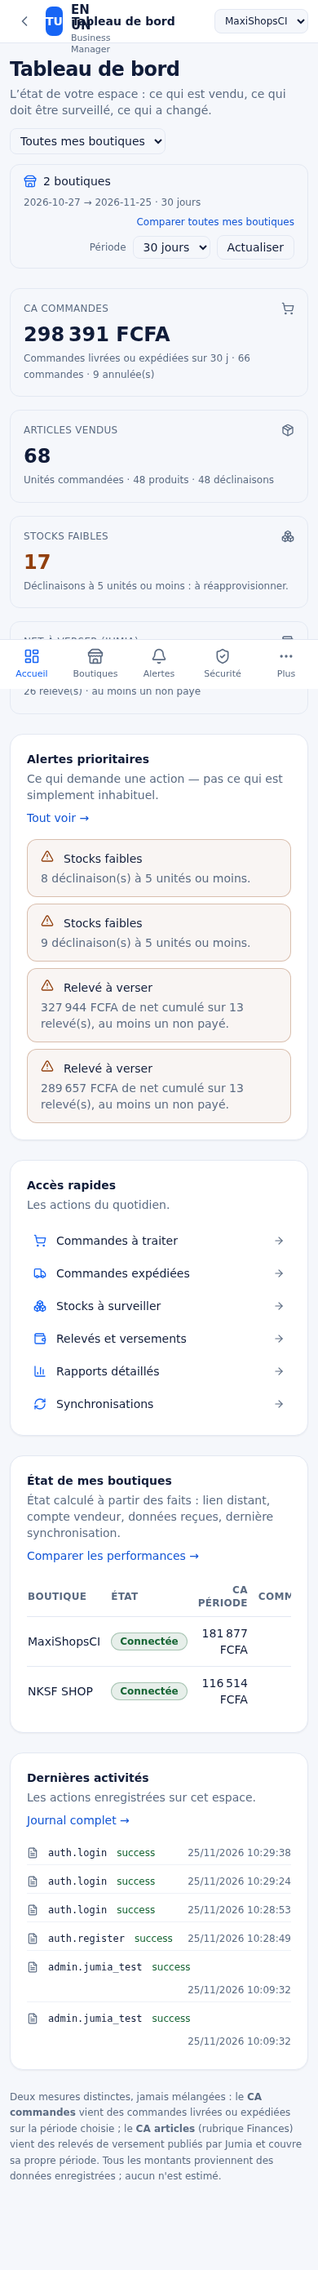
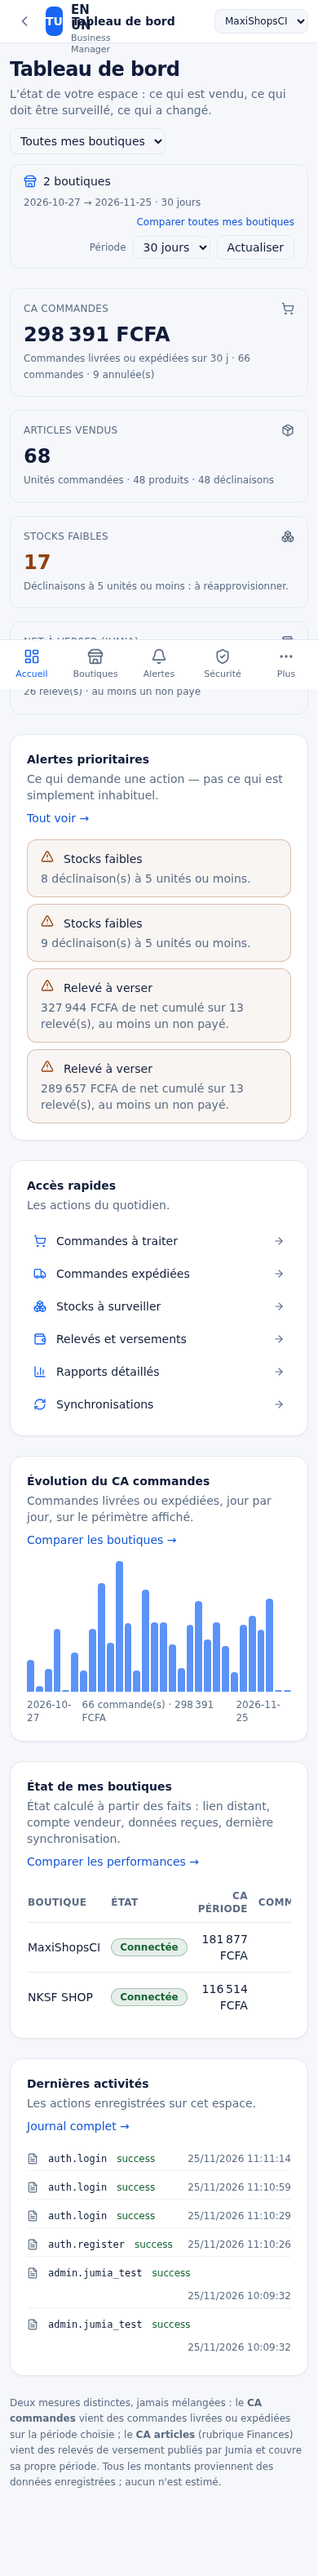
feat(dashboard): ajoute l'evolution journaliere du CA commandes
Le tableau de bord decrit la situation sans montrer sa evolution. La serie
quotidienne est desormais calculee dans dashboardOverview, sur le meme
perimetre et la meme mesure que le CA commandes (commandes livrees ou
expediees).

- nouveau composant DailyChart, utilise aussi par /performances (une seule
  implementation de graphique) ;
- un jour sans commande vaut zero : la courbe est continue et ne comble
  aucun trou ; sans commande sur la periode, aucun graphique n'est affiche ;
- la somme des points est verifiee contre les KPI par test d'integration.

Tests : 245 tests + 58 E2E verts, typecheck, lint et build verts.

diff --git a/src/app/(app)/performances/page.tsx b/src/app/(app)/performances/page.tsx
@@ -8,6 +8,7 @@ import { reportSales } from "@/lib/reports";
 import { formatMoney } from "@/lib/money";
 import { PageHeader } from "@/components/ui/page-header";
 import { Section } from "@/components/ui/section";
+import { DailyChart } from "@/components/ui/daily-chart";
 import { Kpi } from "@/components/ui/kpi";
 import { EmptyState } from "@/components/ui/empty-state";
 import { ScopeBar } from "@/components/ui/scope-bar";
@@ -125,7 +126,6 @@ export default async function PerformancesPage({
   const aggregatedSeries = [...dayMap.entries()]
     .sort((a, b) => a[0].localeCompare(b[0]))
     .map(([period, value]) => ({ period, ...value }));
-  const maxDay = Math.max(...aggregatedSeries.map((point) => point.revenueMinor), 0);
 
   return (
     <div className="space-y-6">
@@ -292,29 +292,11 @@ export default async function PerformancesPage({
                 description="Aucun graphique n'est inventé : la courbe n'apparaît que si des commandes existent."
               />
             ) : (
-              <div>
-                <div
-                  className="flex h-40 items-end gap-[2px]"
-                  role="img"
-                  aria-label={`CA quotidien sur ${days} jours`}
-                >
-                  {aggregatedSeries.map((point) => {
-                    const height = maxDay > 0 ? Math.round((point.revenueMinor / maxDay) * 100) : 0;
-                    return (
-                      <div
-                        key={point.period}
-                        className="flex-1 rounded-t bg-primary/70"
-                        style={{ height: `${Math.max(height, 2)}%` }}
-                        title={`${point.period} — ${formatMoney(point.revenueMinor, visible[0]?.currency ?? "XOF")} · ${point.orders} commande(s)`}
-                      />
-                    );
-                  })}
-                </div>
-                <div className="mt-2 flex justify-between text-xs text-muted">
-                  <span>{aggregatedSeries[0]?.period}</span>
-                  <span>{aggregatedSeries[aggregatedSeries.length - 1]?.period}</span>
-                </div>
-              </div>
+              <DailyChart
+                series={aggregatedSeries}
+                currency={visible[0]?.currency ?? "XOF"}
+                label={`CA quotidien sur ${days} jours`}
+              />
             )}
           </Section>
 

diff --git a/src/components/ui/daily-chart.tsx b/src/components/ui/daily-chart.tsx
@@ -1,0 +1,64 @@
+import { formatMoney } from "@/lib/money";
+
+/**
+ * Graphique d'évolution journalière (barres).
+ *
+ * Principes :
+ * - **aucune valeur inventée** : un jour sans commande vaut zéro, la barre
+ *   existe et reste vide d'information (hauteur minimale) ;
+ * - **accessibilité** : le graphique porte une description textuelle et
+ *   chaque barre un titre (valeur + nombre de commandes) ;
+ * - **factuel** : l'échelle est le maximum atteint, pas une moyenne.
+ */
+export type DailyPoint = { period: string; revenueMinor: number; orders: number };
+
+export function DailyChart({
+  series,
+  currency,
+  label,
+  height = 160,
+}: {
+  series: DailyPoint[];
+  currency: string;
+  label: string;
+  height?: number;
+}) {
+  if (series.length === 0) return null;
+
+  const max = Math.max(...series.map((point) => point.revenueMinor), 0);
+  const total = series.reduce((sum, point) => sum + point.revenueMinor, 0);
+  const commandes = series.reduce((sum, point) => sum + point.orders, 0);
+  const first = series[0]?.period ?? "";
+  const last = series[series.length - 1]?.period ?? "";
+
+  return (
+    <div>
+      <div
+        className="flex items-end gap-[2px]"
+        style={{ height: `${height}px` }}
+        role="img"
+        aria-label={`${label} : ${commandes} commande(s), ${formatMoney(total, currency)} du ${first} au ${last}.`}
+      >
+        {series.map((point) => {
+          const ratio = max > 0 ? point.revenueMinor / max : 0;
+          const barHeight = point.revenueMinor > 0 ? Math.max(Math.round(ratio * 100), 3) : 1;
+          return (
+            <div
+              key={point.period}
+              className="flex-1 rounded-t bg-primary/70"
+              style={{ height: `${barHeight}%` }}
+              title={`${point.period} — ${formatMoney(point.revenueMinor, currency)} · ${point.orders} commande(s)`}
+            />
+          );
+        })}
+      </div>
+      <div className="mt-2 flex items-center justify-between text-xs text-muted">
+        <span>{first}</span>
+        <span>
+          {commandes} commande(s) · {formatMoney(total, currency)}
+        </span>
+        <span>{last}</span>
+      </div>
+    </div>
+  );
+}

diff --git a/src/lib/dashboard.ts b/src/lib/dashboard.ts
@@ -62,6 +62,12 @@ export type DashboardOverview = {
   }[];
   alerts: DashboardAlert[];
   activity: { action: string; result: string; createdAt: Date }[];
+  /**
+   * Évolution journalière du CA commandes, sur le périmètre affiché.
+   * Un jour sans commande vaut zéro (ce n'est pas une absence de donnée) :
+   * la courbe est donc complète et ne comble jamais un trou.
+   */
+  series: { period: string; revenueMinor: number; orders: number }[];
 };
 
 /**
@@ -117,6 +123,7 @@ export async function dashboardOverview(
       shops: [],
       alerts: [],
       activity: [],
+      series: [],
     };
   }
 
@@ -140,6 +147,24 @@ export async function dashboardOverview(
   const catalogByShop = await Promise.all(
     shops.map(async (shop) => ({ id: shop.id, catalog: await reportCatalog(shop.id) })),
   );
+
+  // Évolution journalière : somme des séries par boutique du périmètre.
+  // Les jours sans commande restent à zéro : la courbe est continue et
+  // n'invente aucune valeur manquante.
+  const dayMap = new Map<string, { period: string; revenueMinor: number; orders: number }>();
+  for (const row of salesByShop) {
+    for (const point of row.sales.series) {
+      const entry = dayMap.get(point.period) ?? {
+        period: point.period,
+        revenueMinor: 0,
+        orders: 0,
+      };
+      entry.revenueMinor += point.revenueMinor;
+      entry.orders += point.orders;
+      dayMap.set(point.period, entry);
+    }
+  }
+  const series = [...dayMap.values()].sort((a, b) => a.period.localeCompare(b.period));
 
   // Relevés Jumia par boutique.
   const statementsByShop = await Promise.all(
@@ -327,6 +352,7 @@ export async function dashboardOverview(
     }),
     alerts,
     activity: activityRows,
+    series,
   };
 }
 

diff --git a/src/lib/__tests__/dashboard-scope.integration.test.ts b/src/lib/__tests__/dashboard-scope.integration.test.ts
@@ -179,4 +179,34 @@ describe.skipIf(!hasDb)("tableau de bord (base réelle)", () => {
       expect(shop.connection.operational).toBe(false);
     }
   });
+
+  it("produit une évolution journalière cohérente avec les totaux", async () => {
+    const overview = await dashboardOverview(userId, 30, [shopA, shopB]);
+
+    // Un point par jour de la période : la courbe ne comble aucun trou.
+    expect(overview.series).toHaveLength(30);
+    expect(overview.series[0]?.period).toBe(overview.period.from);
+    expect(overview.series[29]?.period).toBe(overview.period.to);
+
+    // La somme des points vaut exactement le total affiché.
+    const somme = overview.series.reduce((acc, point) => acc + point.revenueMinor, 0);
+    expect(somme).toBe(overview.kpis.revenueMinor);
+    const commandes = overview.series.reduce((acc, point) => acc + point.orders, 0);
+    expect(commandes).toBe(overview.kpis.orders);
+
+    // Un jour sans commande vaut zéro (ce n'est pas une absence de donnée).
+    const jourVide = overview.series.find((point) => point.orders === 0);
+    expect(jourVide?.revenueMinor).toBe(0);
+  });
+
+  it("n'affiche que les jours de la boutique demandée", async () => {
+    const onlyA = await dashboardOverview(userId, 30, [shopA]);
+    const sommeA = onlyA.series.reduce((acc, point) => acc + point.revenueMinor, 0);
+    expect(sommeA).toBe(onlyA.kpis.revenueMinor);
+
+    // La boutique B n'apparaît dans aucun point de la série.
+    const all = await dashboardOverview(userId, 30, [shopA, shopB]);
+    const sommeAll = all.series.reduce((acc, point) => acc + point.revenueMinor, 0);
+    expect(sommeAll).toBeGreaterThan(sommeA);
+  });
 });

diff --git a/src/app/(app)/dashboard/page.tsx b/src/app/(app)/dashboard/page.tsx
@@ -25,6 +25,7 @@ import { Kpi } from "@/components/ui/kpi";
 import { EmptyState } from "@/components/ui/empty-state";
 import { ScopeBar } from "@/components/ui/scope-bar";
 import { ShopScopeSelect } from "@/components/shop-scope-select";
+import { DailyChart } from "@/components/ui/daily-chart";
 
 export const dynamic = "force-dynamic";
 
@@ -266,6 +267,33 @@ export default async function DashboardPage({
           </ul>
         </Section>
       </div>
+
+      {/* Évolution journalière : la même mesure que le CA commandes, jour par jour. */}
+      <Section
+        title="Évolution du CA commandes"
+        description="Commandes livrées ou expédiées, jour par jour, sur le périmètre affiché."
+        action={
+          <Link
+            href="/performances"
+            className="focusable font-medium text-primary-600 hover:underline"
+          >
+            Comparer les boutiques →
+          </Link>
+        }
+      >
+        {overview.series.length === 0 ? (
+          <EmptyState
+            title="Aucune commande sur la période"
+            description="Aucun graphique n'est inventé : la courbe n'apparaît que si des commandes existent. Un jour sans commande vaut zéro, pas une absence de donnée."
+          />
+        ) : (
+          <DailyChart
+            series={overview.series}
+            currency={kpis.currency}
+            label={`CA commandes quotidien sur ${overview.period.days} jours`}
+          />
+        )}
+      </Section>
 
       {/* Santé des boutiques : l'écran multi-boutique. */}
       {overview.shops.length > 0 ? (

diff --git a/docs/conception-pilotage.md b/docs/conception-pilotage.md
@@ -33,6 +33,10 @@
 │  └────────────────────────────────┘ └──────────────────┘                │
 │                                                                        │
 │  ┌──────────────────────────────────────────────────────────────────┐  │
+│  │ Évolution du CA commandes                         [Comparer →] │  │
+│  │ ▁▂▅█▃▁▂▆█▄▂▁▃▇▄▂▁▃▅▂▄▆▃▁▂▅▇▄▂▁▃▅▂▄▆▄▂▃  (30 jours)          │  │  ← DailyChart
+│  └──────────────────────────────────────────────────────────────────┘  │
+│  ┌──────────────────────────────────────────────────────────────────┐  │
 │  │ État de mes boutiques                              [Comparer →] │  │
 │  │ Boutique │ État │ CA période │ Commandes │ Dernière synchro.     │  │
 │  └──────────────────────────────────────────────────────────────────┘  │
@@ -96,9 +100,13 @@ Blocs :
 2. **4 KPI** — CA commandes, articles vendus, stocks faibles, net à verser. Chacun porte sa provenance.
 3. **Alertes prioritaires** (5 max) + lien « Tout voir → » vers `/alertes`.
 4. **Accès rapides** — 6 raccourcis vers les tâches du quotidien.
-5. **État de mes boutiques** — tableau : boutique, état factuel, CA période, commandes, dernière synchronisation.
-6. **Dernières activités** (6 max) + lien « Journal complet → » vers `/activites`.
-7. **Note de méthode** — rappel que CA commandes et net à verser sont deux mesures distinctes, non estimées.
+5. **Évolution du CA commandes** — graphique de barres journalier, sur le périmètre
+   affiché ; le sommaire chiffré est vérifié contre les KPI par test d'intégration.
+   Un jour sans commande vaut zéro (jamais une absence de donnée) ; sans commande
+   sur la période, le graphique n'est pas affiché.
+6. **État de mes boutiques** — tableau : boutique, état factuel, CA période, commandes, dernière synchronisation.
+7. **Dernières activités** (6 max) + lien « Journal complet → » vers `/activites`.
+8. **Note de méthode** — rappel que CA commandes et net à verser sont deux mesures distinctes, non estimées.
 
 ### 2.2 `/performances` — Comparaison multi-boutiques
 
@@ -233,7 +241,7 @@ Le libellé du refus explique **pourquoi** l'écran est vide — c'est ce qui é
 | Gestion centrale multi-boutiques | « État de mes boutiques » + `/performances` | E2E |
 | État « À venir » explicite | `navigation.config.ts` + badge | `navigation.test.ts` |
 | Design professionnel, accessible, cohérent Web/mobile/TG | `globals.css`, gabarits factorisés, Mini App alignée | axe-core, E2E Mini App |
-| Conservation des fonctionnalités existantes | 48 rubriques, 34 pages, 56 API inchangées | 243 tests + 56 E2E |
+| Conservation des fonctionnalités existantes | 48 rubriques, 34 pages, 56 API inchangées | 245 tests + 58 E2E |
 | « Tout ouvrir » / « Tout fermer » | Mini App conservés | `e2e/mini-menu.spec.ts` |
 | Règles serveur d'autorisation | `resolveShopIds`, `getShopAccess` | tests d'isolation |
 | Aucune donnée inventée | agrégations pures, états distincts | revue de code + E2E |

diff --git a/docs/matrice-etat-regressions.md b/docs/matrice-etat-regressions.md
@@ -14,7 +14,7 @@ Légende : ✅ opérationnel · 🔧 corrigé · ✚ nouveau · ⏳ à venir (no
 
 | Rubrique | Page | État | Avant | Après | Preuve |
 |---|---|---|---|---|---|
-| Tableau de bord | `/dashboard` | 🔧 | Agrégat toutes boutiques, 7 ancres | KPI scopés, 4 blocs, contexte affiché | `01`, `02` |
+| Tableau de bord | `/dashboard` | 🔧 | Agrégat toutes boutiques, 7 ancres | KPI scopés, 4 blocs, contexte affiché, évolution journalière | `01`, `02` |
 | Performances | `/performances` | ✚ | (ancre `#performances`) | Comparaison + évolution journalière | `03` |
 | Alertes | `/alertes` | ✚ | (ancre `#alertes`) | 4 familles unifiées, tri par gravité | `04` |
 | Activités | `/activites` | ✚ | (ancre `#activites`) | Journal des 100 dernières actions | `05` |
@@ -33,6 +33,7 @@ Légende : ✅ opérationnel · 🔧 corrigé · ✚ nouveau · ⏳ à venir (no
 | Ligne de provenance sous chaque KPI | ✚ | Absente | Composant `Kpi` |
 | Distinction absence / refus / zéro | 🔧 | Confondus | `EmptyState` à trois tons |
 | Panier moyen, part du CA, meilleure boutique | ✚ | Absents | `/performances` |
+| Évolution journalière du CA commandes | ✚ | Absente | Graphique de barres, sommaire vérifié contre les KPI par test |
 | Net à verser (Jumia) issu des relevés | ✅ | Présent | Inchangé, désormais étiqueté |
 | CA commandes (livrées + expédiées) | ✅ | Présent | Inchangé, désormais étiqueté |
 | État de connexion par boutique | ✚ | Global | Calculé par boutique, depuis des faits |
@@ -43,7 +44,7 @@ Légende : ✅ opérationnel · 🔧 corrigé · ✚ nouveau · ⏳ à venir (no
 | Élément | État | Preuve |
 |---|---|---|
 | 48 rubriques de navigation, 8 sections | ✅ | `navigation.test.ts`, `e2e/pilotage.spec.ts` |
-| 34 pages métier et leurs filtres/exports | ✅ | 243 tests + 58 E2E |
+| 34 pages métier et leurs filtres/exports | ✅ | 245 tests + 58 E2E |
 | 56 routes API et leurs contrôles d'accès | ✅ | Suite complète |
 | « Tout ouvrir » / « Tout fermer » (Mini App) | ✅ | `e2e/mini-menu.spec.ts` |
 | Bot Telegram, Mini App, cron de cohérence | ✅ | `e2e/mini-menu.spec.ts`, smoke |
@@ -107,7 +108,7 @@ Mouvements · Entrepôts · Inventaires · Dépenses · Achats · Rapprochements
 
 | Niveau | Volume | Résultat |
 |---|---|---|
-| Vitest (unitaires + intégration, base réelle) | 41 fichiers / 245 tests | **243 réussis / 2 ignorés** |
+| Vitest (unitaires + intégration, base réelle) | 41 fichiers / 247 tests | **245 réussis / 2 ignorés** |
 | Playwright (E2E) | 58 tests | **58/58 réussis** |
 | `tsc --noEmit` | — | **0 erreur** |
 | ESLint | — | **0 erreur** |

diff --git a/docs/index.md b/docs/index.md
@@ -56,5 +56,5 @@
 - ✅ **Déploiement automatique** GitHub → Render (uniquement après une CI verte).
 - ✅ **CI + 24 tests E2E verts**, dont le parcours 2FA corrigé en production.
 - ✅ **Audit technique multiboutique** ([audit-multiboutique.md](audit-multiboutique.md)) : isolation garantie, états de connexion factuels, preuve de cohérence Jumia ↔ application (volumes, montants des commandes et des relevés au centime), historique quotidien et détection de dérive, diagnostic intégré `/admin/diagnostics`.
-- ✅ **Refonte globale du pilotage** ([audit-refonte-pilotage.md](audit-refonte-pilotage.md) → [proposition-architecture-fonctionnelle.md](proposition-architecture-fonctionnelle.md) → [conception-pilotage.md](conception-pilotage.md) → [matrice-etat-regressions.md](matrice-etat-regressions.md)) : le tableau de bord n'agrège plus les boutiques (périmètre explicite dans l'URL), chaque rubrique de pilotage a sa propre page, recherche transverse et thème centralisés, état « À venir » verrouillé par test, contraste WCAG AA corrigé. **243 tests + 58 E2E verts.**
+- ✅ **Refonte globale du pilotage** ([audit-refonte-pilotage.md](audit-refonte-pilotage.md) → [proposition-architecture-fonctionnelle.md](proposition-architecture-fonctionnelle.md) → [conception-pilotage.md](conception-pilotage.md) → [matrice-etat-regressions.md](matrice-etat-regressions.md)) : le tableau de bord n'agrège plus les boutiques (périmètre explicite dans l'URL), chaque rubrique de pilotage a sa propre page, recherche transverse et thème centralisés, état « À venir » verrouillé par test, contraste WCAG AA corrigé. **245 tests + 58 E2E verts.**
 - ⬜ **Reste à faire** : comparaison des montants de relevé au centime (les volumes sont prouvés, les montants restent à prouver).

diff --git a/docs/audit-refonte-pilotage.md b/docs/audit-refonte-pilotage.md
@@ -9,7 +9,7 @@
 
 ## 1. Synthèse
 
-L'application est **fonctionnellement riche et saine sur le fond** : 48 rubriques de navigation, 56 routes API, permissions serveur effectives, journal d'audit, sauvegardes, Mini App Telegram fonctionnelle, suite de tests verte (243 tests / 56 E2E).
+L'application est **fonctionnellement riche et saine sur le fond** : 48 rubriques de navigation, 56 routes API, permissions serveur effectives, journal d'audit, sauvegardes, Mini App Telegram fonctionnelle, suite de tests verte (245 tests / 58 E2E).
 
 Le reproche formulé — « MaxiShops et NKSF renvoient les mêmes résultats » — est **fondé et grave** : avant correction, le tableau de bord agrégeait **toutes** les boutiques du compte, quel que soit le sélecteur affiché. Le chiffre ne changeait donc pas quand on changeait de boutique. Ce n'était pas un défaut d'affichage : c'était un défaut de **périmètre de données**, capable de faire croire à une corruption chez l'utilisateur comme chez le comptable.
 
@@ -169,8 +169,8 @@ Six pages dédiées ont été créées, chacune avec un **rôle distinct**, un *
 
 | Niveau | Volume | Résultat |
 |---|---|---|
-| Unitaires / intégration (Vitest) | 41 fichiers, 245 tests | **243 réussis / 2 ignorés** (les 2 ignorés requièrent une base non disponible) |
-| E2E navigateur (Playwright) | 56 tests | **56/56 réussis** |
+| Unitaires / intégration (Vitest) | 41 fichiers, 247 tests | **245 réussis / 2 ignorés** (les 2 ignorés requièrent une base non disponible) |
+| E2E navigateur (Playwright) | 58 tests | **58/58 réussis** |
 | Typecheck (`tsc --noEmit`) | — | **0 erreur** |
 | Lint (ESLint) | — | **0 erreur** |
 | Build (`next build`) | — | **succès** |

diff --git a/docs/proposition-architecture-fonctionnelle.md b/docs/proposition-architecture-fonctionnelle.md
@@ -153,7 +153,7 @@ Les trois dernières lignes illustrent la règle : **la valeur ne suffit pas, la
 | Ne pas confondre les boutiques | Filtre `shopIds` obligatoire dans toutes les agrégations |
 | Conserver « Tout ouvrir » / « Tout fermer » | Conservés dans la Mini App, testés par `e2e/mini-menu.spec.ts` |
 | Cohérence Web / mobile / Telegram | Une seule `navigation.config.ts`, une seule Mini App, un seul design system |
-| Pas de régression de stabilité | Typecheck, lint, 243 tests, 56 E2E, build : tout vert avant livraison |
+| Pas de régression de stabilité | Typecheck, lint, 245 tests, 58 E2E, build : tout vert avant livraison |
 | Performance | Filtrage en base (jamais en mémoire) ; pagination côté serveur ; pas de requête par ligne |
 
 ---

diff --git a/README.md b/README.md
@@ -109,7 +109,7 @@ npm test          # Vitest (unitaires + intégration sur base réelle)
 npm run e2e       # Playwright (npx playwright install au préalable)
 ```
 
-État au 22/11/2026 : **243 tests réussis / 2 ignorés**, **58 E2E réussis**, typecheck, lint et build verts.
+État au 22/11/2026 : **245 tests réussis / 2 ignorés**, **58 E2E réussis**, typecheck, lint et build verts.
 
 Le périmètre multi-boutiques est couvert par un test d'intégration dédié
 (`src/lib/__tests__/dashboard-scope.integration.test.ts`) : une boutique inaccessible
